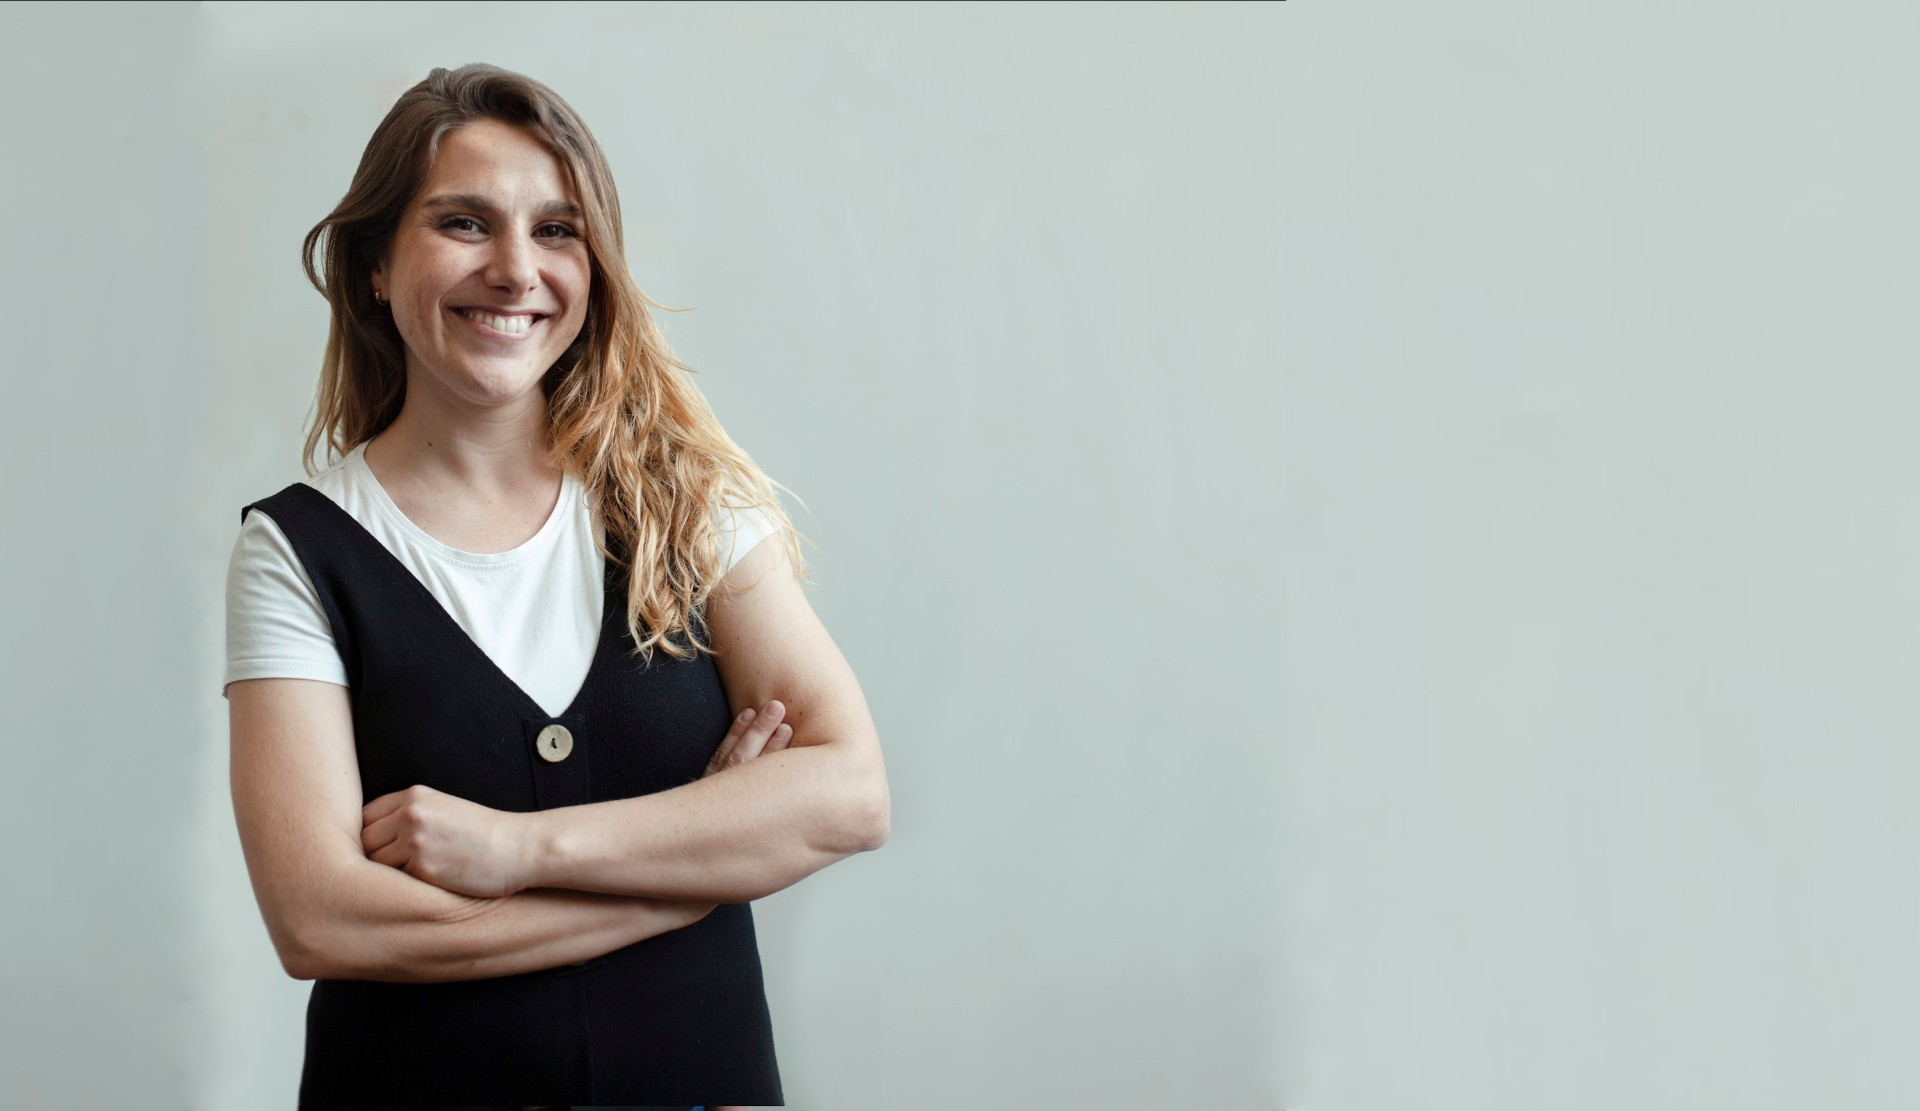
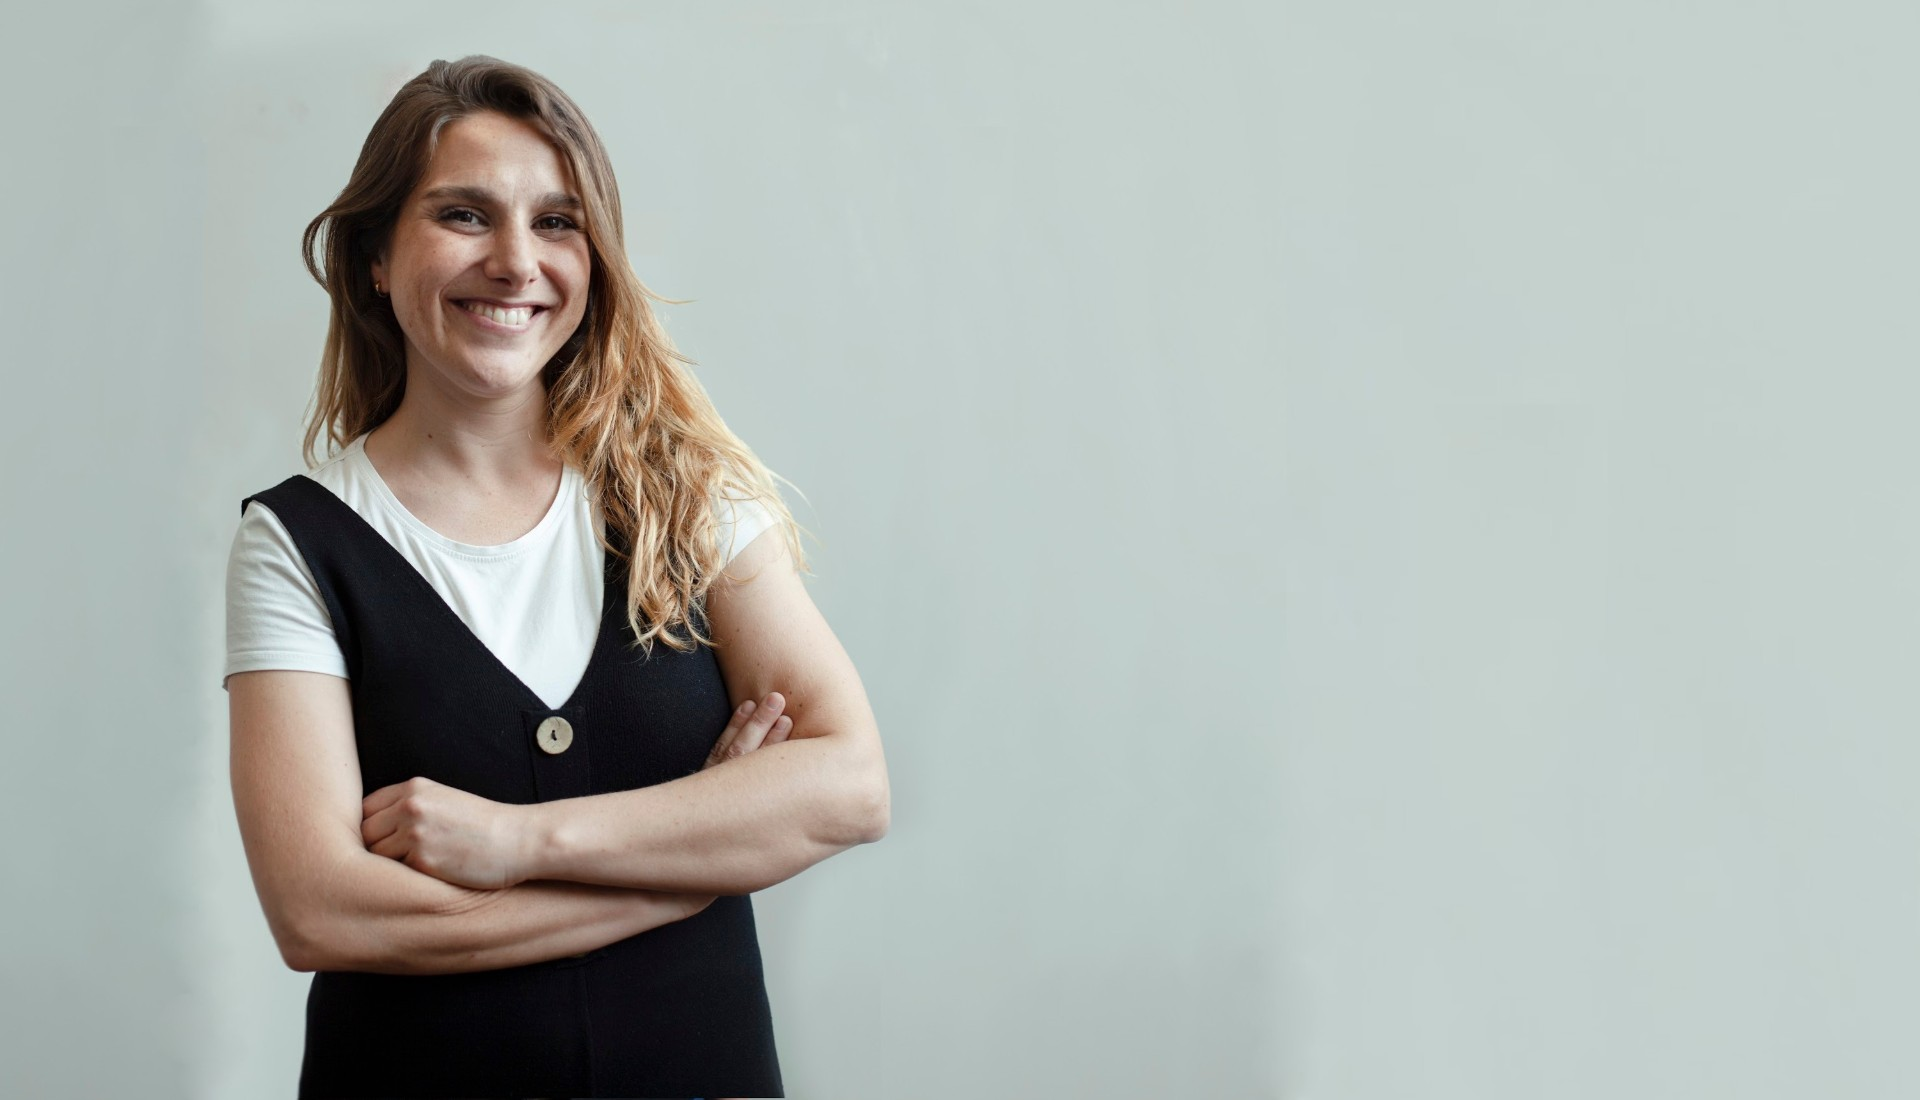
Hero change

diff --git a/src/scss/core/_common.scss b/src/scss/core/_common.scss
@@ -48,7 +48,7 @@ a {
     .hero {
         min-height: auto;
         background: none;
-        padding: 50px 0;
+        padding: 0;
         .content {
             position: static;
             background-color: $grey1;
@@ -74,7 +74,6 @@ a {
 
     .hero-video-player {
       height: 200px;
-      top: 50px;
 
       a {
         max-width: 50px;

diff --git a/docs/assets/css/main.css b/docs/assets/css/main.css
@@ -3064,7 +3064,7 @@ button.swiper-pagination-bullet {
   .hero {
     min-height: auto;
     background: none;
-    padding: 50px 0;
+    padding: 0;
   }
 
   .hero .content {
@@ -3095,7 +3095,6 @@ button.swiper-pagination-bullet {
 
   .hero-video-player {
     height: 200px;
-    top: 50px;
   }
 
   .hero-video-player a {
